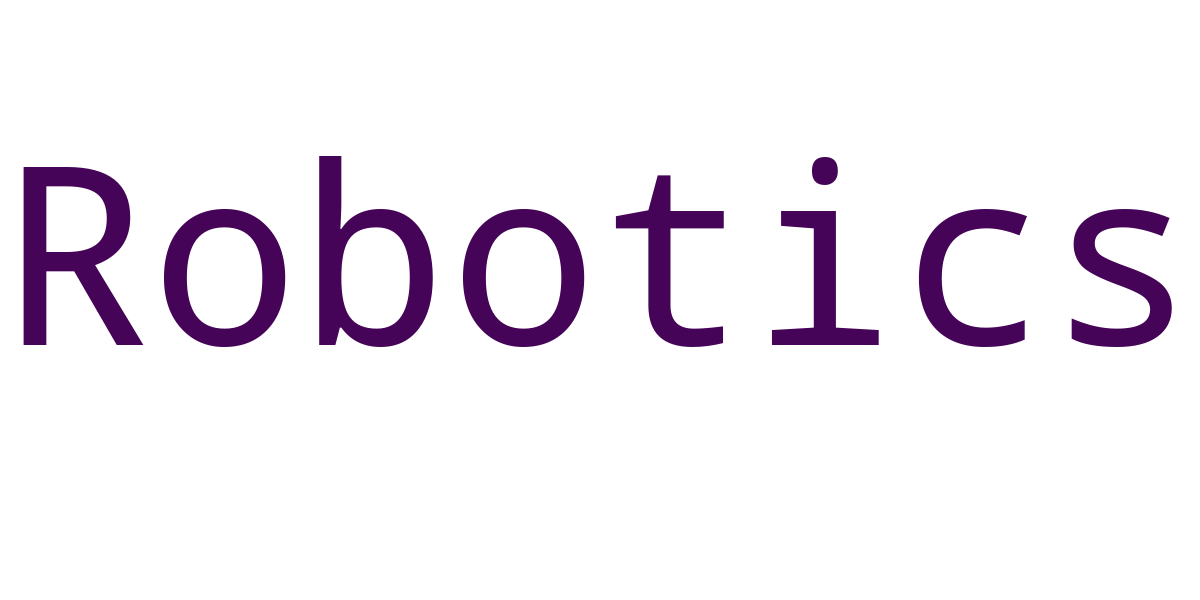
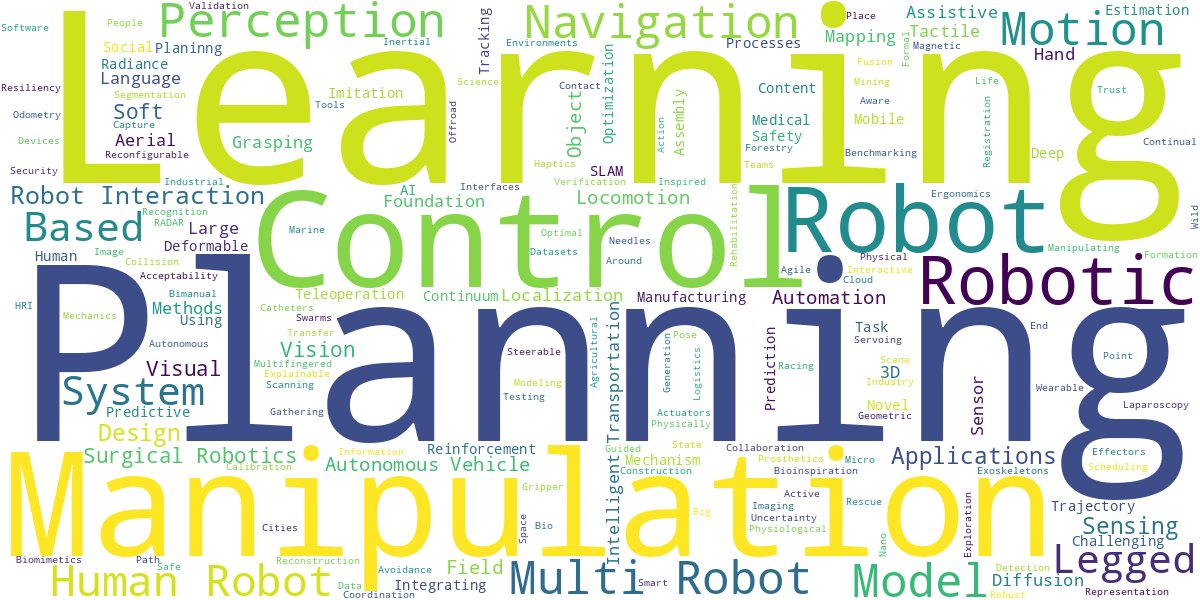
Add multi-concept handling, save wordcloud, use Gemini 2.0 Flash to prevent malformed inputs

diff --git a/main.py b/main.py
@@ -3,92 +3,151 @@
 import os
 import yaml
 import pandas as pd
+import argparse
 from dotenv import load_dotenv
 from wordcloud import WordCloud
 import matplotlib.pyplot as plt
 
 # LangChain components
 from langchain_google_genai import ChatGoogleGenerativeAI
+from langchain_openai import ChatOpenAI
 from langchain_community.document_loaders import PyPDFDirectoryLoader, WebBaseLoader
 from langchain_text_splitters import RecursiveCharacterTextSplitter
-from langchain.chains import create_extraction_chain
+from langchain_core.prompts import ChatPromptTemplate
 from langchain_core.pydantic_v1 import BaseModel, Field
-from typing import Literal
+from typing import Literal, List
 
 # --- 1. SETUP and CONFIGURATION ---
 load_dotenv()
 
-class RoboticsConcept(BaseModel):
-    concept_name: str = Field(description="The name of the technology, problem, or domain.")
+class TechnicalConcept(BaseModel):
+    concept_name: str = Field(description="The name of the technical technology, problem, or domain.")
     temporal_context: Literal["Past", "Current", "Future"] = Field(
         description="Classify the concept as related to past work, current needs, or future goals."
     )
+    concept_type: Literal["Technology", "Problem", "Domain", "Other"] = Field(
+        description="Classify the concept as a domain, problem, technology, or other."
+    )
 
-# --- 2. DATA LOADING FUNCTION ---
-def load_documents_from_yaml(config_path="config/sources.yaml"):
-    """Loads all documents specified in the YAML config file."""
-    with open(config_path, 'r') as f:
-        config = yaml.safe_load(f)
-    
+class TechnicalConcepts(BaseModel):
+    concepts: List[TechnicalConcept] = Field(description="A list of all the technical concepts extracted from the text.")
+
+
+# --- 2. DYNAMIC LLM LOADER ---
+def get_llm(llm_config: dict):
+    """Initializes the correct LLM based on the provider specified in the config."""
+    provider = llm_config.get("provider", "").lower()
+    model = llm_config.get("model")
+
+    if provider == "google":
+        print(f"Using Google model: {model}")
+        return ChatGoogleGenerativeAI(model=model, temperature=0)
+    elif provider == "openai":
+        print(f"Using OpenAI model: {model}")
+        return ChatOpenAI(model=model, temperature=0)
+    else:
+        raise ValueError(f"Unsupported LLM provider '{provider}'. Please use 'Google' or 'OpenAI'.")
+
+# --- 3. DATA LOADING FUNCTION ---
+def load_documents_from_yaml(config: dict):
+    """Loads all documents specified in the YAML config."""
     all_docs = []
-    
-    # Load from URLs
-    if 'urls' in config and config['urls']:
-        print(f"Loading {len(config['urls'])} URL(s)...")
+    # (This function is the same as before, but now takes the loaded config dict)
+    if 'urls' in config and config.get('urls'):
         for url in config['urls']:
-            loader = WebBaseLoader(url)
-            all_docs.extend(loader.load())
-            
-    # Load from PDF directories
-    if 'pdfs' in config and config['pdfs']:
-        print(f"Loading PDFs from {len(config['pdfs'])} directorie(s)...")
+            all_docs.extend(WebBaseLoader(url).load())
+    if 'pdfs' in config and config.get('pdfs'):
         for path in config['pdfs']:
             if os.path.isdir(path):
-                loader = PyPDFDirectoryLoader(path)
-                all_docs.extend(loader.load())
-            else:
-                print(f"Warning: Directory not found at {path}")
-                
+                all_docs.extend(PyPDFDirectoryLoader(path).load())
     return all_docs
 
-# --- 3. ANALYSIS AND EXECUTION ---
+# --- 4. ANALYSIS AND EXECUTION ---
 if __name__ == "__main__":
-    print("Starting analysis...")
-    
-    # 1. Load the entire corpus of documents
-    corpus_docs = load_documents_from_yaml()
+    parser = argparse.ArgumentParser(description="Analyze robotics trends from a corpus of documents.")
+    parser.add_argument(
+        '--config',
+        type=str,
+        default='config/default.yaml',
+        help='Path to the YAML configuration file.'
+    )
+    args = parser.parse_args()
+
+    print(f"Loading configuration from: {args.config}")
+    with open(args.config, 'r') as f:
+        config = yaml.safe_load(f)
+
+    # 1. Initialize the correct LLM
+    if 'llm' not in config:
+        raise ValueError("YAML config must contain an 'llm' section.")
+    llm = get_llm(config['llm'])
+
+    # 2. Load documents
+    corpus_docs = load_documents_from_yaml(config)
     if not corpus_docs:
         print("No documents found. Exiting.")
         exit()
-    
-    print(f"\nLoaded a total of {len(corpus_docs)} document pages/sections.")
 
-    # 2. Split documents into chunks
+    # Split text
     text_splitter = RecursiveCharacterTextSplitter(chunk_size=4000, chunk_overlap=200)
     docs_chunks = text_splitter.split_documents(corpus_docs)
-    
-    print(f"Split into {len(docs_chunks)} chunks for analysis.")
 
-    # 3. Run LLM extraction chain
-    print("Extracting concepts with Gemini... This may take a while for a large corpus.")
-    llm = ChatGoogleGenerativeAI(model="gemini-2.0-flash", temperature=0)
-    extraction_chain = create_extraction_chain(RoboticsConcept.schema(), llm)
-    extracted_data = extraction_chain.run(docs_chunks)
+    prompt = ChatPromptTemplate.from_messages(
+        [
+            (
+                "system",
+                "You are an expert at extracting information. "
+                "You are tasked with parsing the provided text, and categorizing the topics. "
+                "Extract all relevant technical concepts from the following text. "
+                "For each concept, classify it as 'Past', 'Current', or 'Future' based on the context. "
+                "Then, classify the key concept as a 'Domain', 'Problem', 'Technology', or 'Other'.",
+            ),
+            ("human", "{text}"),
+        ]
+    )
+
+    # Bind the Pydantic schema to the model and create the new chain
+    structured_llm = llm.with_structured_output(TechnicalConcepts)
+    extraction_chain = {"text": lambda docs: "\n\n".join([d.page_content for d in docs])} | prompt | structured_llm
     
-    # 4. Process and display results
-    results_df = pd.DataFrame(extracted_data)
+    print(f"Extracting concepts from {len(docs_chunks)} chunks...")
+    extracted_data_object = extraction_chain.invoke(docs_chunks)
+    
+    # MODIFIED: Create the DataFrame from the list inside the returned object
+    if extracted_data_object and extracted_data_object.concepts:
+        # Convert the list of Pydantic objects into a list of dictionaries
+        list_of_concepts = [concept.dict() for concept in extracted_data_object.concepts]
+        results_df = pd.DataFrame(list_of_concepts)
+    else:
+        results_df = pd.DataFrame() # Create an empty DataFrame if nothing was found
+
     print("\n--- Analysis Complete ---")
+    print(results_df)
     
     if not results_df.empty:
+        print("\n## Concept Type Breakdown:")
+        print(results_df['concept_type'].value_counts()) # This will now work correctly
+
+        present_concepts = results_df[results_df['temporal_context'] == 'Present']
         future_concepts = results_df[results_df['temporal_context'] == 'Future']
+        print("\n## Top Present Concepts Identified:")
+        print(present_concepts['concept_name'].value_counts().nlargest(15))
+        
         print("\n## Top Future Concepts Identified:")
         print(future_concepts['concept_name'].value_counts().nlargest(15))
         
-        # Generate and save word cloud
+        # Generate and save word clouds
         future_text = ' '.join(future_concepts['concept_name'].dropna())
         if future_text:
             wordcloud = WordCloud(width=1200, height=600, background_color='white').generate(future_text)
             wordcloud.to_file("future_concepts_wordcloud.png")
             print("\nWord cloud saved to 'future_concepts_wordcloud.png'")
+
+            plt.figure(figsize=(10, 5))
+            plt.imshow(wordcloud, interpolation='bilinear')
+            plt.axis('off') # Hide the axes
+            plt.title("Future Concepts")
+            plt.show()
+
     else:
         print("No concepts were extracted from the documents.")

diff --git a/README.md b/README.md
@@ -4,23 +4,42 @@ A repo that accepts a list of websites and .pdf documents, parses them using an 
 Features integration with LangChain for tracing and analysis.
 
 ![Example wordcloud output](future_concepts_wordcloud.png "Example Wordcloud Output")
-![Example wordcloud output](future_concepts_2.png "Another example Wordcloud Output")
 
 This is a work in progress, but feel free to raise an issue in the meantime if you're interested.
 
 # Setup
+## Prerequisites
+This assumes you are using a Unix-style OS and was developed on Ubuntu 24.04.
+
+This also assumes you have [Conda](https://docs.conda.io/projects/conda/en/latest/user-guide/install/index.html) (or alternatively, [Mamba](https://mamba.readthedocs.io/en/latest/installation/mamba-installation.html)) installed for Python environment management. `conda` and `mamba` can be used interchangeably.
+
 ## Create mamba environment
 mamba env create -f env.yml
 
 ## Set your environment variables
-Modify the included `.env_example` with your LangChain and Google AI credentials, and save the updated file as `.env`.
+Modify the included `.env_example` with your LangChain and Google AI credentials.
+
+To do this, you'll need to generate a new tracing project in LangSmith, and copy the generated project name and key at this screen:
+![alt text](langchain.png)
+
+Google AI credentials can be found in [Google AI Studio](https://aistudio.google.com/app/apikey). This can be modified for OpenAI, but I began with Google for development.
+
+Save the updated file as `.env`; it will automatically be loaded by the scripts later on.
 
 ## Update the data sources
-Modify the `data/sources.yaml` file as needed. Some example .pdf documents and websites are provided.
+Modify the sample `data/sample_sources.yaml` file as needed. Some example .pdf documents and websites are provided.
+
+## Installation
 
 # Usage
+
 ```
 mamba activate tech_trend_analysis
 python3 main.py # The standalone script, which generates the wordcloud image and a report
+python3 main.py -c config/default.yaml
+python3 main.py -c config/dev.yaml # Use a custom config file for development
 streamlit run streamlit_app.py # The streamlit browser app version
 ```
+
+# Future Work
+- Implement OpenAI function calls and example files